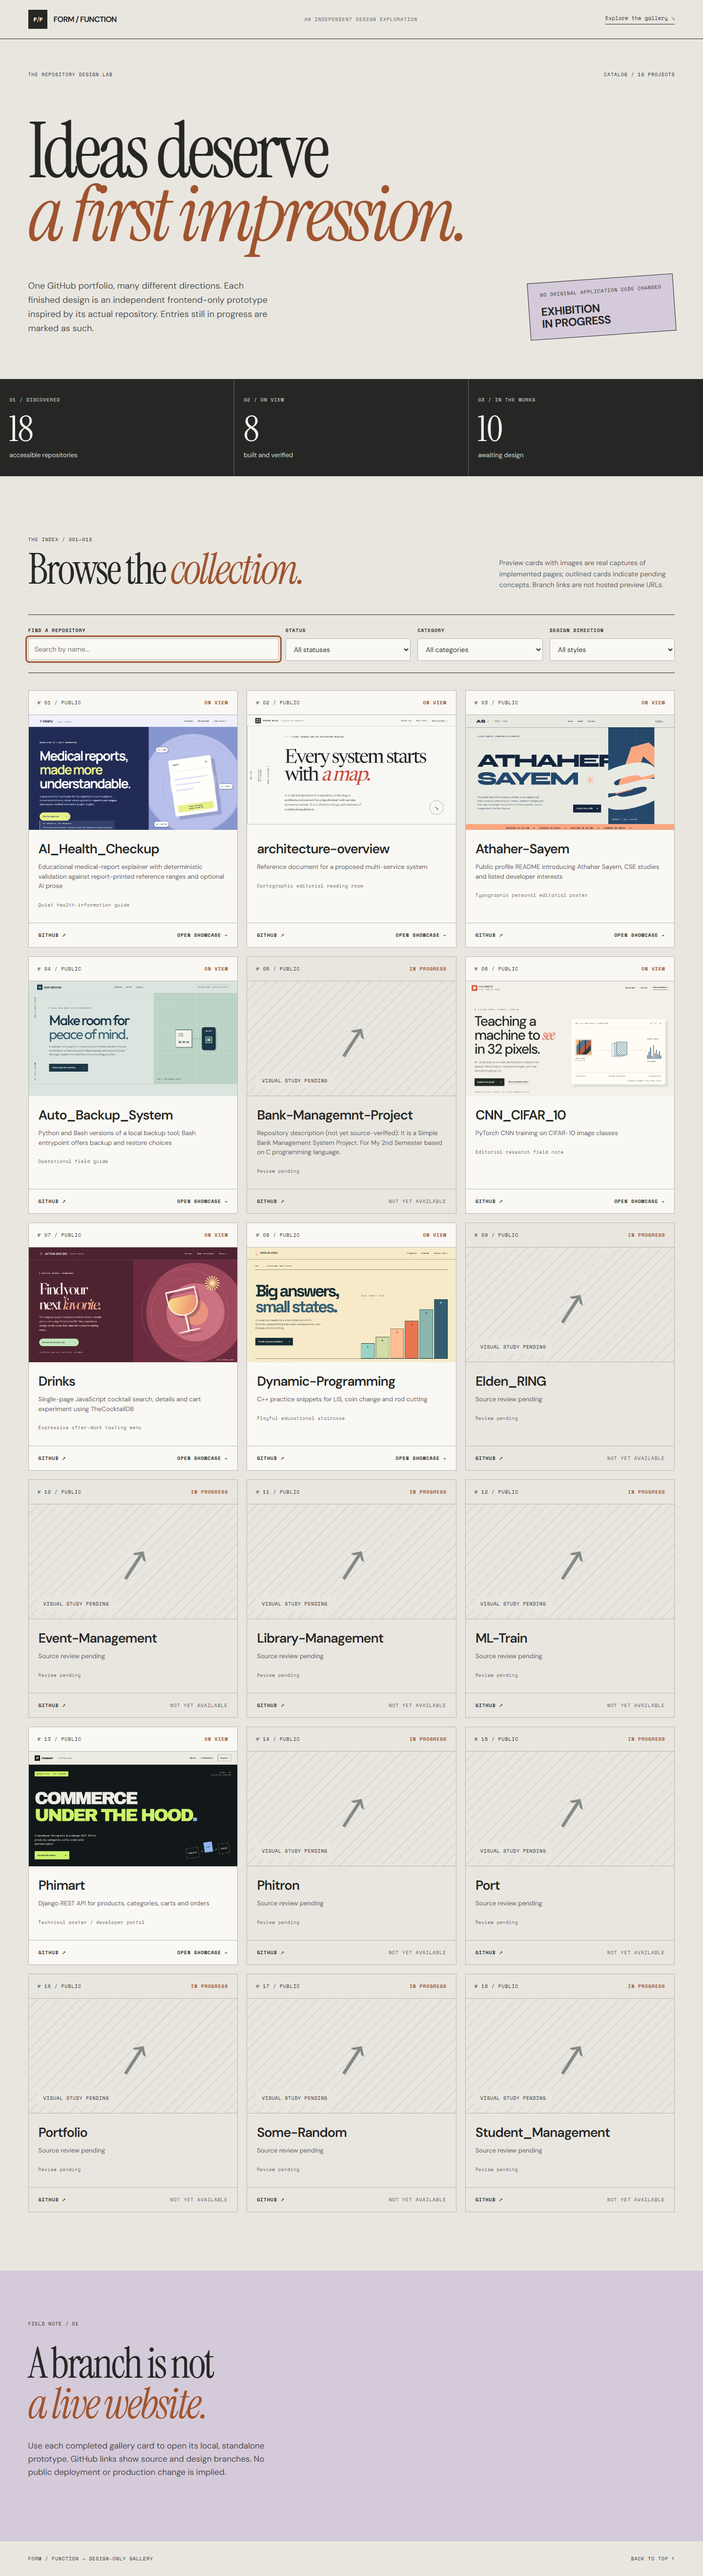
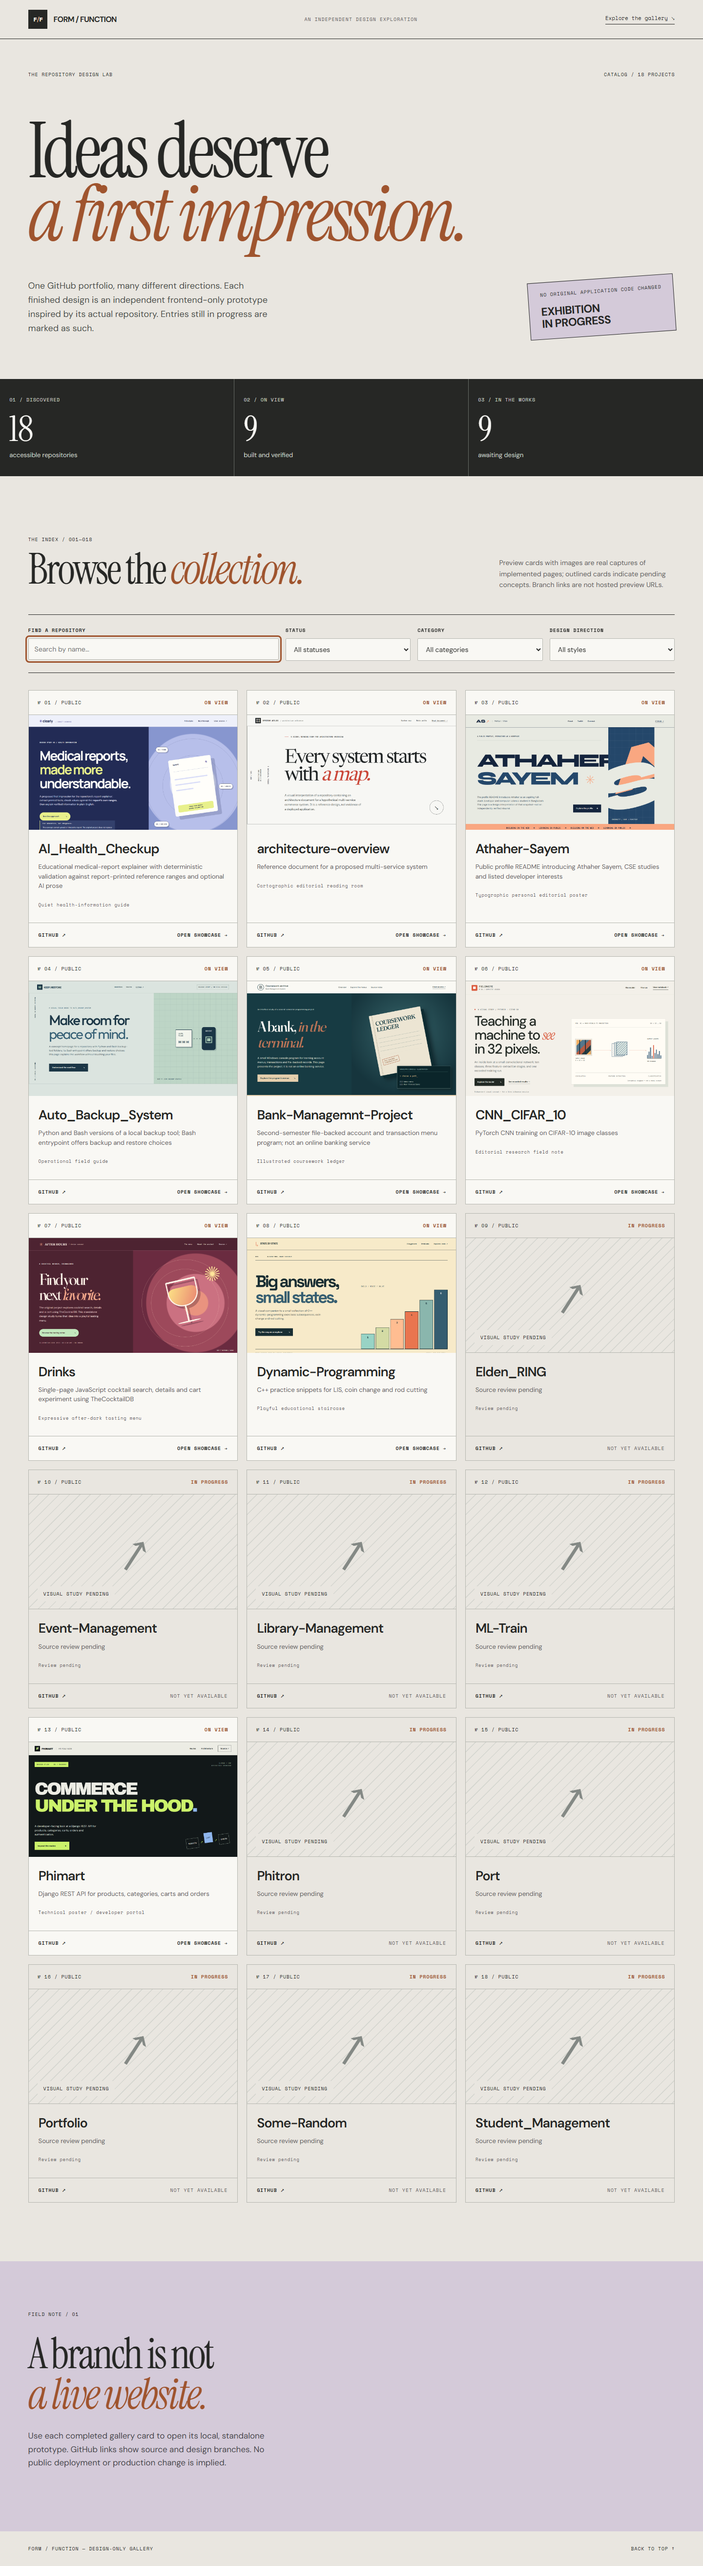
feat: index verified banking coursework showcase

diff --git a/showcase-design/showcases/Bank-Managemnt-Project/styles.css b/showcase-design/showcases/Bank-Managemnt-Project/styles.css
@@ -1,0 +1,10 @@
+:root{--teal:#173b43;--deep:#112e36;--paper:#efeee7;--cream:#faf9f4;--copper:#bb7457;--ink:#24383b;--muted:#576966;--line:#c7ccc4;--body:'DM Sans',Arial,sans-serif;--display:'Fraunces',Georgia,serif}
+*{box-sizing:border-box}html{scroll-behavior:smooth}body{margin:0;background:var(--paper);color:var(--ink);font:16px/1.65 var(--body)}a{color:inherit}button{font:inherit;cursor:pointer}a:focus-visible,button:focus-visible,#menu-panel:focus-visible{outline:3px solid var(--copper);outline-offset:4px}.skip{position:absolute;top:-100px;left:16px;background:white;padding:12px;z-index:10}.skip:focus{top:10px}h1,h2,h3,p{margin-top:0}h1,h2,h3{font-family:var(--display);font-weight:500;line-height:1.08;letter-spacing:-.045em}em{font-weight:500;color:var(--copper)}
+.masthead{min-height:84px;padding:14px clamp(20px,5vw,80px);display:flex;gap:36px;align-items:center;justify-content:space-between;background:var(--cream);border-bottom:1px solid var(--line)}.identity{display:flex;align-items:center;gap:12px;font-weight:700;text-decoration:none;line-height:1.2}.identity small{display:block;font-size:11px;font-weight:500;color:var(--muted);margin-top:4px}.seal{width:44px;height:44px;border-radius:50%;display:grid;place-items:center;border:2px double var(--teal);font:30px var(--display)}nav{display:flex;gap:28px;font-size:13px}nav a{text-decoration:none}nav a:hover,.repo-link:hover{color:var(--copper)}.repo-link{white-space:nowrap;font-size:13px;font-weight:700;text-decoration:none;border-bottom:1px solid;padding-bottom:2px}
+.hero{display:grid;grid-template-columns:1fr 1fr;background:var(--teal);color:var(--cream);min-height:630px}.hero-copy{padding:100px clamp(25px,7vw,110px) 90px clamp(25px,5vw,80px);display:flex;flex-direction:column;align-items:flex-start}.folio{font-size:13px;letter-spacing:.015em;color:#cadbd2}.hero h1{font-size:clamp(68px,7vw,112px);max-width:720px;margin:40px 0}.lead{font-size:18px;line-height:1.6;max-width:510px;color:#e3e8de}.primary{background:#e5cfad;color:var(--deep);text-decoration:none;padding:14px 20px;display:inline-flex;gap:32px;justify-content:space-between;font-size:14px;font-weight:700;margin-top:22px}.primary:hover{background:var(--cream)}.hero-art{position:relative;overflow:hidden;display:grid;place-items:center;background:radial-gradient(circle at 50% 40%,#38666b,#16353d 75%);min-height:630px}.hero-art:before{content:'';position:absolute;inset:0;background:repeating-linear-gradient(90deg,transparent 0 74px,rgba(255,255,255,.025) 75px),repeating-linear-gradient(0deg,transparent 0 74px,rgba(255,255,255,.025) 75px)}.ledger{position:relative;width:min(66%,360px);height:420px;transform:rotate(-11deg) translate(-20px,-25px);background:#ece5d3;box-shadow:20px 22px 0 #0e2c32,30px 35px 35px #11252b;color:var(--teal);padding:40px 35px;border-radius:3px}.ledger-binding{position:absolute;top:0;bottom:0;left:18px;border-left:4px double #b2a891}.ledger-title{font:500 40px/1.05 var(--display);letter-spacing:-.05em}.ledger-lines{height:125px;margin-top:32px;background:repeating-linear-gradient(0deg,transparent 0 27px,#b1bab0 28px,#b1bab0 29px)}.ledger-stamp{margin-top:25px;display:inline-block;border:2px solid var(--copper);padding:6px 10px;color:#985d42;font:700 10px/1.3 var(--body);letter-spacing:.08em;transform:rotate(-5deg)}.terminal{position:absolute;bottom:45px;right:5%;width:min(77%,370px);background:#0b252a;border:1px solid #72908d;box-shadow:10px 12px 18px #142a2d;color:#e7e6cd;padding:16px 18px;display:grid;gap:18px;font:14px/1.6 Consolas,monospace}.terminal-bar{font:10px var(--body);border-bottom:1px solid #446c69;padding-bottom:10px;color:#a9c8c2;letter-spacing:.08em}.terminal-prompt{color:#ebd29e}.cursor{color:var(--copper)}.terminal-options{font-size:12px;color:#c3d5cb}.disclaimer{background:#e5cfad;color:#273737;padding:17px clamp(20px,5vw,80px);font-size:13px;font-weight:600}.disclaimer span{font-size:19px;margin-right:6px}
+.section-wrap{padding-left:clamp(20px,5vw,80px);padding-right:clamp(20px,5vw,80px)}.overview,.source,.explore-heading{display:grid;grid-template-columns:minmax(150px,24%) 1fr;gap:30px}.overview,.source{padding-top:125px;padding-bottom:130px}.section-aside{font-size:13px;font-weight:700;border-top:2px solid var(--copper);padding-top:16px}.section-body{max-width:920px}.section-body h2{font-size:clamp(48px,5.5vw,86px);margin:0 0 33px}.section-body>p{max-width:680px;font-size:18px;color:var(--muted)}code{font-size:.9em;color:var(--teal)}.flow{display:flex;align-items:center;gap:16px;flex-wrap:wrap;margin-top:46px;font-size:13px;font-weight:700}.flow span:nth-child(odd){border:1px solid #aab7af;background:var(--cream);padding:14px 18px}.flow span:nth-child(even){color:var(--copper);font-size:23px}
+.explore{background:var(--cream);padding-top:115px;padding-bottom:130px}.explore-heading .section-body>p{max-width:650px}.menu-layout{display:grid;grid-template-columns:minmax(225px,29%) 1fr;gap:20px;margin-top:50px}.menu-tabs{display:flex;flex-direction:column;gap:9px}.menu-tabs button{background:transparent;color:var(--teal);border:1px solid var(--line);padding:21px;text-align:left;font-size:17px;font-weight:700;display:flex;align-items:center;gap:15px}.menu-tabs button[aria-selected=true]{background:var(--teal);color:var(--cream);border-color:var(--teal)}.tab-mark{font:24px var(--display);display:grid;place-items:center;width:36px;height:36px;border:1px solid currentColor;border-radius:50%;flex:none}.menu-panel{border:1px solid var(--line);background:var(--paper);padding:clamp(30px,5vw,70px);min-height:380px}.panel-label{font-size:13px;font-weight:700;color:#8f533c}.menu-panel h3{font-size:clamp(35px,4vw,60px);margin:12px 0 30px}.menu-panel ul{list-style:none;margin:0 0 35px;padding:0;max-width:580px}.menu-panel li{padding:9px 0 9px 23px;border-bottom:1px solid var(--line);position:relative}.menu-panel li:before{content:'+';position:absolute;left:0;color:var(--copper);font-weight:700}.menu-panel>p:last-child{max-width:610px;color:var(--muted);font-size:14px}.source{background:var(--paper)}.source-button{display:inline-flex;gap:30px;justify-content:space-between;background:var(--teal);color:var(--cream);text-decoration:none;padding:16px 20px;font-size:14px;font-weight:700;margin:30px 0 12px}.source-button:hover{background:#2e6266}.section-body .footnote{font-size:13px;color:var(--muted)}footer{background:var(--deep);color:var(--cream);padding:30px clamp(20px,5vw,80px);display:flex;justify-content:space-between;gap:20px;font-size:13px}footer a{text-decoration:none}footer a:hover{text-decoration:underline}
+@media(max-width:1000px){.masthead{gap:15px}nav{gap:12px}.hero-copy{padding-right:30px}.hero h1{font-size:clamp(55px,7vw,82px)}.ledger{height:370px;padding:38px 30px}.ledger-title{font-size:35px}.terminal{right:3%}}
+@media(max-width:700px){.masthead{padding:14px 20px;flex-wrap:wrap}.masthead nav{order:3;width:100%;justify-content:space-between;padding-top:9px;border-top:1px solid var(--line)}.repo-link{font-size:12px}.hero{grid-template-columns:1fr}.hero-copy{padding:65px 20px 70px}.hero h1{font-size:clamp(54px,11vw,77px);margin:26px 0}.lead{font-size:16px}.hero-art{min-height:410px}.ledger{height:310px;width:240px;transform:rotate(-11deg) translate(-10px,-15px)}.ledger-title{font-size:28px}.ledger-lines{height:75px;margin-top:15px}.ledger-stamp{margin-top:20px;font-size:8px}.terminal{bottom:18px;width:265px;max-width:75%;padding:10px;font-size:11px}.terminal-options{font-size:10px}.disclaimer{line-height:1.5}.overview,.source,.explore-heading{display:block}.overview,.source{padding-top:80px;padding-bottom:85px}.explore{padding-top:80px;padding-bottom:90px}.section-aside{margin-bottom:30px}.section-body h2{font-size:clamp(45px,9.5vw,65px)}.section-body>p{font-size:16px}.flow{gap:10px}.flow span:nth-child(odd){padding:10px 11px}.menu-layout{display:block;margin-top:30px}.menu-tabs{flex-direction:row}.menu-tabs button{flex:1;padding:10px;font-size:13px;gap:7px}.tab-mark{width:27px;height:27px;font-size:18px}.menu-panel{margin-top:10px;padding:28px 20px;min-height:360px}.menu-panel h3{font-size:37px}footer{flex-wrap:wrap}}
+@media(max-width:370px){.hero h1{font-size:49px}.identity{font-size:12px}.identity small{font-size:10px}.seal{width:34px;height:34px;font-size:24px}.menu-tabs button{font-size:12px}.tab-mark{width:23px;height:23px;font-size:15px}}
+@media(prefers-reduced-motion:reduce){html{scroll-behavior:auto}}

diff --git a/showcase-design/showcases/Bank-Managemnt-Project/index.html b/showcase-design/showcases/Bank-Managemnt-Project/index.html
@@ -1,0 +1,48 @@
+<!doctype html>
+<html lang="en">
+<head>
+  <meta charset="utf-8">
+  <meta name="viewport" content="width=device-width, initial-scale=1">
+  <meta name="theme-color" content="#173b43">
+  <meta name="description" content="A design-only introduction to a Windows console banking coursework project. No banking services or customer records are available here.">
+  <title>Bank Management System | Coursework archive</title>
+  <link rel="preconnect" href="https://fonts.googleapis.com">
+  <link rel="preconnect" href="https://fonts.gstatic.com" crossorigin>
+  <link href="https://fonts.googleapis.com/css2?family=DM+Sans:wght@400;500;600;700&family=Fraunces:opsz,wght@9..144,500;9..144,650&display=swap" rel="stylesheet">
+  <link rel="stylesheet" href="styles.css">
+  <script src="app.js" defer></script>
+</head>
+<body>
+  <a class="skip" href="#main">Skip to content</a>
+  <header class="masthead" id="top">
+    <a class="identity" href="#top"><span class="seal" aria-hidden="true">B</span><span>Coursework archive<small>Bank Management System</small></span></a>
+    <nav aria-label="Page navigation"><a href="#overview">Overview</a><a href="#explore">Explore the menus</a><a href="#source">Source notes</a></nav>
+    <a class="repo-link" href="https://github.com/Athaher-Sayem/Bank-Managemnt-Project/tree/Shocase_design" target="_blank" rel="noopener noreferrer">View source <span aria-hidden="true">↗</span></a>
+  </header>
+  <main id="main">
+    <section class="hero" aria-labelledby="hero-title">
+      <div class="hero-copy">
+        <p class="folio">An interface study of a second-semester programming project</p>
+        <h1 id="hero-title">A bank, <em>in the terminal.</em></h1>
+        <p class="lead">A small Windows console program for learning account menus, transactions and file-backed records. This page presents the project; it is not an online banking service.</p>
+        <a class="primary" href="#explore">Explore the program's menus <span aria-hidden="true">↘</span></a>
+      </div>
+      <div class="hero-art" aria-label="Illustration of a paper ledger with a terminal prompt">
+        <div class="ledger"><div class="ledger-binding"></div><div class="ledger-title">COURSEWORK<br>LEDGER</div><div class="ledger-lines"></div><div class="ledger-stamp">FILE-BACKED<br>CONSOLE STUDY</div></div>
+        <div class="terminal"><span class="terminal-bar">WINDOWS CONSOLE · ILLUSTRATION</span><span class="terminal-prompt">&gt; choose a path<span class="cursor">_</span></span><span class="terminal-options">[1] Admin menu<br>[2] User transactions</span></div>
+      </div>
+    </section>
+    <div class="disclaimer"><span aria-hidden="true">※</span> Design-only showcase. No accounts, transfers, logins or records are accessible on this page.</div>
+    <section class="overview section-wrap" id="overview" aria-labelledby="overview-title">
+      <div class="section-aside">The original program</div>
+      <div class="section-body"><h2 id="overview-title">From menu choice<br>to saved record.</h2><p>The repository README describes a second-semester coursework project. Its principal source is a <code>.cpp</code> file using Windows console APIs and C-style functions. At startup, it loads account information from a local text file, then presents separate admin and user paths.</p><div class="flow" aria-label="Program flow"><span>Load local file</span><span aria-hidden="true">→</span><span>Choose a menu</span><span aria-hidden="true">→</span><span>Save changes to file</span></div></div>
+    </section>
+    <section class="explore" id="explore" aria-labelledby="explore-title">
+      <div class="section-wrap explore-heading"><div class="section-aside">Menu guide</div><div class="section-body"><h2 id="explore-title">Two doors into<br>the same program.</h2><p>Select a path to read about the original console menus. These controls only change the explanation below; they do not run the program.</p></div></div>
+      <div class="section-wrap menu-layout"><div class="menu-tabs" role="tablist" aria-label="Original program menus"><button type="button" id="admin-tab" role="tab" aria-selected="true" aria-controls="menu-panel" tabindex="0" data-menu="admin"><span class="tab-mark">A</span> Admin menu</button><button type="button" id="user-tab" role="tab" aria-selected="false" aria-controls="menu-panel" tabindex="-1" data-menu="user"><span class="tab-mark">U</span> User transactions</button></div><div id="menu-panel" class="menu-panel" role="tabpanel" aria-labelledby="admin-tab" tabindex="0"><p class="panel-label" id="panel-label">Admin path · original console application</p><h3 id="panel-title">Manage the account list.</h3><ul id="panel-items"><li>View and search accounts</li><li>Add and edit accounts</li><li>Delete accounts</li></ul><p id="panel-note">These are described in the project's README. This page does not accept credentials or display records.</p></div></div>
+    </section>
+    <section class="source section-wrap" id="source" aria-labelledby="source-title"><div class="section-aside">Read the source</div><div class="section-body"><h2 id="source-title">What this page<br>does <em>not</em> do.</h2><p>The repository includes a local <code>Record.txt</code> file. Its contents are intentionally not reproduced here. The README lists password encryption, a graphical interface and improved validation as future improvements—not shipped capabilities.</p><a href="https://github.com/Athaher-Sayem/Bank-Managemnt-Project/tree/Shocase_design" target="_blank" rel="noopener noreferrer" class="source-button">Browse the original repository <span aria-hidden="true">↗</span></a><p class="footnote">The link opens a GitHub source branch, not a hosted banking website.</p></div></section>
+  </main>
+  <footer><span>Bank Management System · an independent coursework showcase</span><a href="#top">Back to top ↑</a></footer>
+</body>
+</html>

diff --git a/showcase-design/showcases/Bank-Managemnt-Project/app.js b/showcase-design/showcases/Bank-Managemnt-Project/app.js
@@ -1,0 +1,46 @@
+const menus = {
+  admin: {
+    label: 'Admin path · original console application',
+    title: 'Manage the account list.',
+    items: ['View and search accounts', 'Add and edit accounts', 'Delete accounts'],
+    note: 'These are described in the project’s README. This page does not accept credentials or display records.'
+  },
+  user: {
+    label: 'User path · original console application',
+    title: 'Work with a local balance.',
+    items: ['Inquire about a balance', 'Deposit into an account', 'Withdraw from an account'],
+    note: 'These are menu options in the coursework program, not live banking actions on this page.'
+  }
+};
+
+const tabs = [...document.querySelectorAll('[data-menu]')];
+function selectMenu(name, focus = false) {
+  const menu = menus[name];
+  if (!menu) return;
+  const activeTab = tabs.find(tab => tab.dataset.menu === name);
+  tabs.forEach(tab => {
+    const selected = tab === activeTab;
+    tab.setAttribute('aria-selected', String(selected));
+    tab.tabIndex = selected ? 0 : -1;
+  });
+  document.getElementById('menu-panel').setAttribute('aria-labelledby', activeTab.id);
+  document.getElementById('panel-label').textContent = menu.label;
+  document.getElementById('panel-title').textContent = menu.title;
+  document.getElementById('panel-items').replaceChildren(...menu.items.map(text => {
+    const item = document.createElement('li');
+    item.textContent = text;
+    return item;
+  }));
+  document.getElementById('panel-note').textContent = menu.note;
+  if (focus) activeTab.focus();
+}
+tabs.forEach((tab, index) => {
+  tab.addEventListener('click', () => selectMenu(tab.dataset.menu));
+  tab.addEventListener('keydown', event => {
+    if (!['ArrowLeft', 'ArrowRight', 'Home', 'End'].includes(event.key)) return;
+    event.preventDefault();
+    const next = event.key === 'Home' ? 0 : event.key === 'End' ? tabs.length - 1 :
+      (index + (event.key === 'ArrowRight' ? 1 : -1) + tabs.length) % tabs.length;
+    selectMenu(tabs[next].dataset.menu, true);
+  });
+});

diff --git a/showcase-design/data.js b/showcase-design/data.js
@@ -67,17 +67,17 @@ window.SHOWCASE_PROJECTS = [
     "name": "Bank-Managemnt-Project",
     "url": "https://github.com/Athaher-Sayem/Bank-Managemnt-Project",
     "visibility": "public",
-    "category": "Review pending",
-    "purpose": "Repository description (not yet source-verified): It is a Simple Bank Management System Project. For My 2nd Semester based on C programming language.",
-    "style": null,
-    "palette": null,
-    "fonts": null,
-    "status": "pending",
-    "showcasePath": null,
-    "screenshot": null,
-    "branchUrl": null,
-    "commitUrl": null,
-    "limitation": null
+    "category": "Windows console coursework",
+    "purpose": "Second-semester file-backed account and transaction menu program; not an online banking service",
+    "style": "Illustrated coursework ledger",
+    "palette": "Deep teal / paper / copper",
+    "fonts": "Fraunces / DM Sans",
+    "status": "completed",
+    "showcasePath": "showcases/Bank-Managemnt-Project/index.html",
+    "screenshot": "showcases/Bank-Managemnt-Project/assets/screenshots/desktop.png",
+    "branchUrl": "https://github.com/Athaher-Sayem/Bank-Managemnt-Project/tree/Shocase_design",
+    "commitUrl": "https://github.com/Athaher-Sayem/Bank-Managemnt-Project/commit/e536bbb0df9195db0401a6d3a610330ad9faaa46",
+    "limitation": "Design-only; contains no customer records, credentials or live banking features."
   },
   {
     "name": "CNN_CIFAR_10",

diff --git a/showcase-design/showcases/Bank-Managemnt-Project/README.md b/showcase-design/showcases/Bank-Managemnt-Project/README.md
@@ -1,0 +1,7 @@
+# Bank Management System — design-only showcase
+
+Open `index.html` directly or serve this folder with `python -m http.server 8000`. The responsive page is a **static interpretation**, not a replacement for the Windows console program. The two accessible tabs change explanatory text only; they do not read files, authenticate anyone, simulate transactions, or store data.
+
+Source inspected at starting `main` commit `3da9661e583611e9b78eac7ccdefa3a5751eb724`: `README.md` and `Bank managemnt system with file.cpp`. The README calls this second-semester C coursework, while the principal source has a `.cpp` extension and uses Windows console APIs. The repository also contains `Record.txt`; **no content from that file or hard-coded credentials** appears in this showcase. Password encryption, GUI, improved validation and transaction history are README future improvements, not represented here as existing features.
+
+Direction: a coursework ledger rather than a fintech landing page. Deep teal `#173b43`, paper `#efeee7`, copper `#bb7457`, Fraunces headlines and DM Sans text. The ledger and terminal are CSS illustrations, not screenshots of account data. Desktop, tablet and mobile full-page captures live under `assets/screenshots/`.
